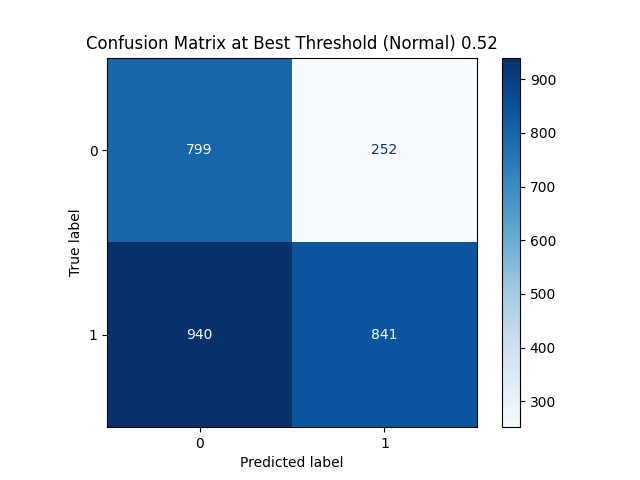
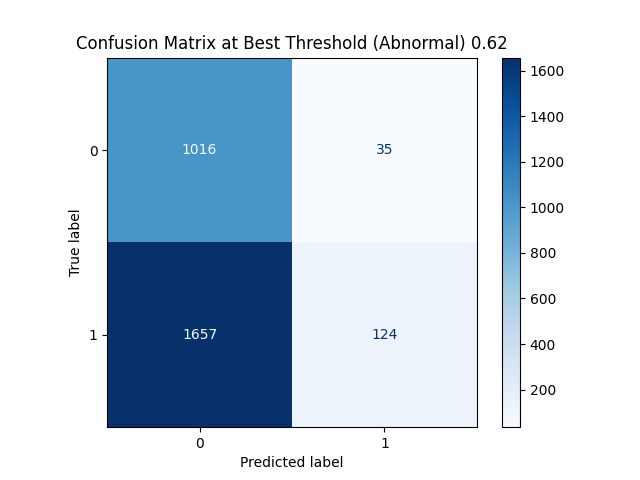
finally final

diff --git a/test.py b/test.py
@@ -19,7 +19,6 @@ tf.random.set_seed(1)
 def get_tfrecord_length(dataset):
 	count = 0
 	for d in dataset:
-		assert(d[1][0] != d[1][1])
 		count += 1	
 	return count
 
@@ -41,18 +40,23 @@ class Tester(object):
 		# Iterate through the test dataset
 		start = time.time()
 		for x_batch, y_batch in self.testset:
-			probabilities = self.net(x_batch, training=False)  # Sigmoid probabilities
-			all_predictions.extend(probabilities.numpy().flatten())  # Collect probabilities as-is
-			all_labels.extend(y_batch.numpy())  # Collect true binary labels
+			# Ensure output probabilities are in [0, 1]
+			probabilities = tf.sigmoid(self.net(x_batch, training=False))  # Apply sigmoid if needed
+			all_predictions.append(probabilities.numpy().flatten())  # Collect probabilities
+			all_labels.append(y_batch.numpy().flatten())  # Collect true labels
+
 		end = time.time()
-		tf.print(f"\n\nRuntime: {round(end - start, 2)} seconds")
+		tf.print(f"\n\nProcessed {len(all_labels) * len(all_labels[0])} samples in {round(end - start, 2)} seconds.")
 
 		# Convert to numpy arrays
-		all_predictions = np.array(all_predictions)
-		all_labels = np.array(all_labels)
+		all_predictions = np.concatenate(all_predictions)  # Concatenate batches
+		all_labels = np.concatenate(all_labels)  # Concatenate batches
 
-		# Generate ROC Curve and AUC
-		self.find_best_threshold_and_produce_metrics(all_labels, all_predictions)
+		# Validate data
+		assert np.all((all_predictions >= 0) & (all_predictions <= 1)), "Predictions out of range [0, 1]"
+		assert np.all((all_labels == 0) | (all_labels == 1)), "Labels must be binary (0 or 1)"
+
+		return all_predictions, all_labels
 
 	def find_best_threshold_and_produce_metrics(self, actual, predicted_probs):
 		"""
@@ -99,7 +103,7 @@ class Tester(object):
 		cm = confusion_matrix(actual, binary_predictions)
 		disp = ConfusionMatrixDisplay(confusion_matrix=cm, display_labels=[0, 1])
 		disp.plot(cmap=plt.cm.Blues)
-		plt.title(f'Confusion Matrix at Best Threshold (Normal) {best_threshold:.2f}')
+		plt.title(f'Confusion Matrix at Best Threshold (Abnormal) {best_threshold:.2f}')
 		plt.grid(False)
 		plt.savefig('Confusion_matrix.png')
 
@@ -152,5 +156,8 @@ if __name__ == '__main__':
 	tester = Tester(cfg, net, testset)
 
 	# Call test function on tester object
-	tester.test()
+	predictions, labels = tester.test()
+
+			# Generate ROC Curve and AUC
+	tester.find_best_threshold_and_produce_metrics(labels, predictions)
 
